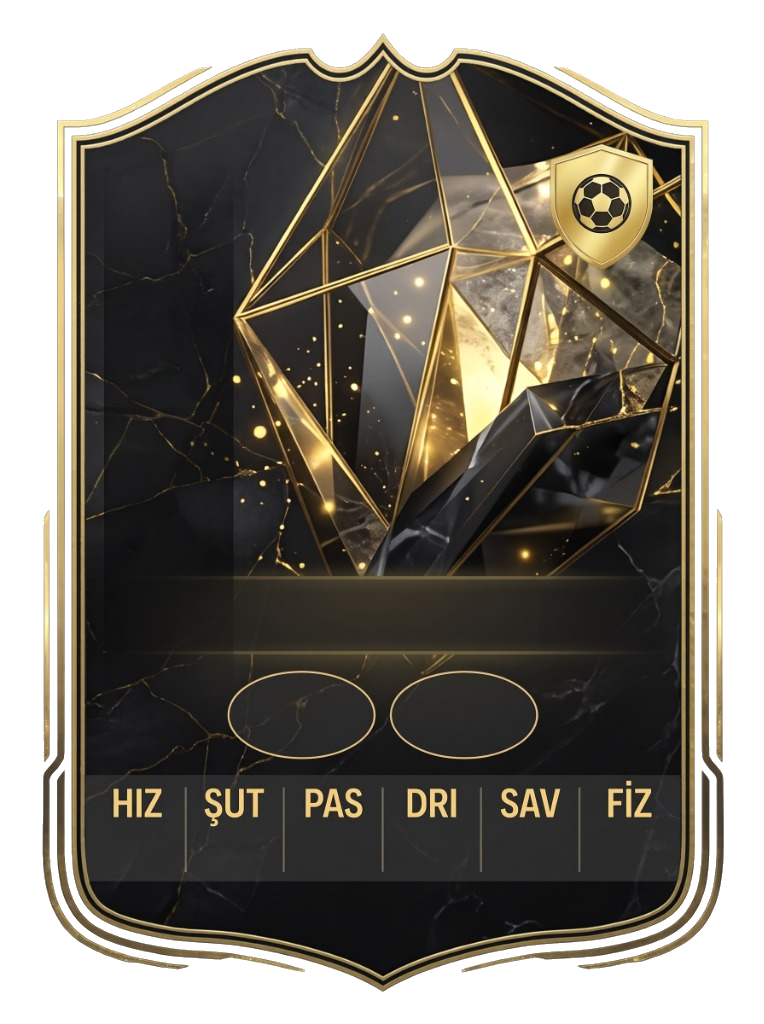
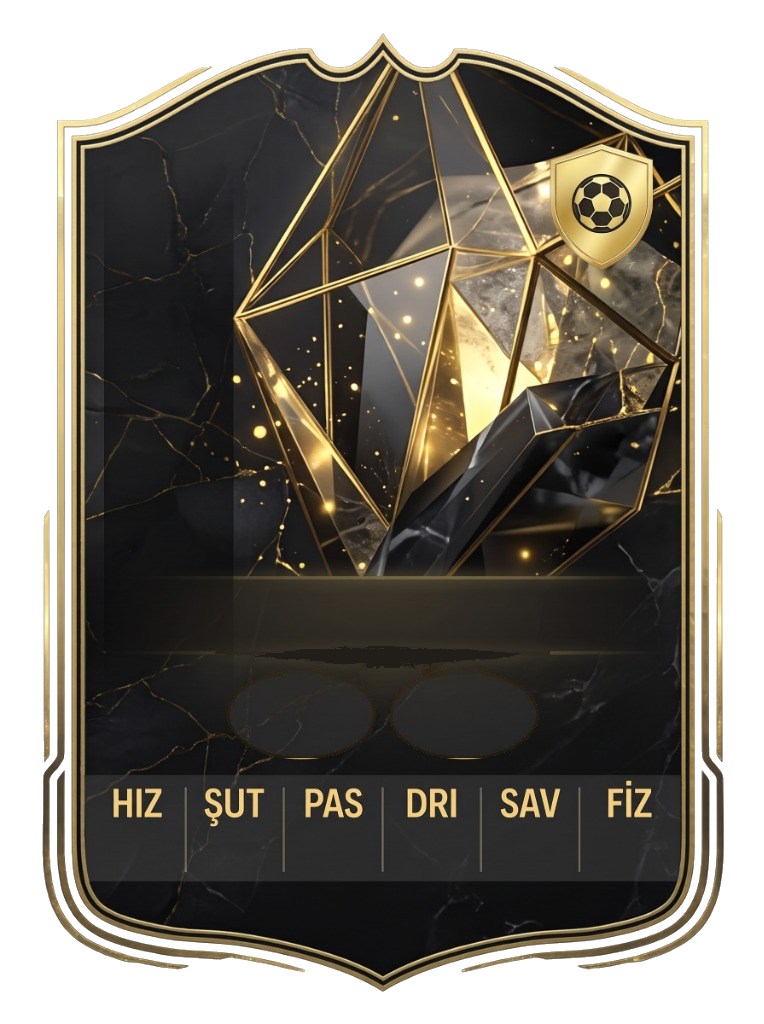
feat: TOTW card rounded horizontal PlayStyles rectangles, centered name and nickname above name

Changed region(s): [[0.301, 0.625, 0.6924, 0.7188], [0.6924, 0.6875, 0.7225, 0.7188], [0.6623, 0.7188, 0.6924, 0.75]]

diff --git a/src/components/card/FCCard.tsx b/src/components/card/FCCard.tsx
@@ -93,12 +93,12 @@ export const FCCard: React.FC<Props> = ({
           nicknameColor: 'text-[#FBBF24]',
           statValColor: 'text-[#FDE68A]',
           ovalTextColor: 'text-amber-200',
-          ovalIconColor: 'text-amber-300',
-          nameTop: 'top-[54.6%]',
+          ovalIconColor: 'text-amber-400',
+          nameTop: 'top-[52.2%]',
           statTop: 'top-[82.2%]',
           statBounds: 'left-[11.3%] right-[11.3%]',
           ovalsTop: 'top-[65.2%]',
-          ovalsBounds: 'left-[29.5%] right-[29.5%]',
+          ovalsBounds: 'left-[10.5%] right-[10.5%]',
           ovalsHeight: 'h-[7.2%]',
           photoFrame: 'top-[11%] left-[12%] right-[8%] h-[44%]',
           isGold: false,
@@ -368,25 +368,65 @@ export const FCCard: React.FC<Props> = ({
         )}
 
         {/* Oyuncu Adı ve Halı Saha Lakabı */}
-        <div
-          className={`absolute left-0 right-0 ${themeConfig.nameTop} flex flex-col items-center justify-center text-center z-20 pointer-events-none`}
-        >
-          <h3 className={`font-black uppercase tracking-wide ${themeConfig.nameColor} ${
-            theme === 'legend' || theme === 'bidon' ? 'text-lg sm:text-xl' : sizeConfig.nameText
-          } ${theme === 'legend' || theme === 'bidon' ? 'drop-shadow-none' : 'drop-shadow-[0_2px_4px_rgba(0,0,0,0.9)]'} truncate w-full px-4`}>
-            {player.name}
-          </h3>
-          <p className={`font-bold italic ${themeConfig.nicknameColor} ${
-            theme === 'legend' || theme === 'bidon' ? 'text-[11px]' : sizeConfig.nicknameText
-          } ${theme === 'legend' || theme === 'bidon' ? 'drop-shadow-none' : 'drop-shadow-[0_1px_2px_rgba(0,0,0,0.8)]'} mt-0.5 truncate w-full px-4`}>
-            "{player.nickname}"
-          </p>
-        </div>
+        {theme === 'totw' ? (
+          <div className="absolute left-0 right-0 top-[52.0%] flex flex-col items-center justify-center text-center z-20 pointer-events-none">
+            {/* Lakap: İsmin üstünde, resmin üzerine doğru */}
+            <p className="font-bold italic text-[#FBBF24] text-[11px] sm:text-xs tracking-wide drop-shadow-[0_2px_4px_rgba(0,0,0,0.95)] mb-1 truncate w-full px-4">
+              "{player.nickname}"
+            </p>
+            {/* İsim: Tam isimlik kısmının ortasında */}
+            <h3 className={`font-black uppercase tracking-wide text-white ${sizeConfig.nameText} drop-shadow-[0_2px_5px_rgba(0,0,0,0.95)] truncate w-full px-4`}>
+              {player.name}
+            </h3>
+          </div>
+        ) : (
+          <div
+            className={`absolute left-0 right-0 ${themeConfig.nameTop} flex flex-col items-center justify-center text-center z-20 pointer-events-none`}
+          >
+            <h3 className={`font-black uppercase tracking-wide ${themeConfig.nameColor} ${
+              theme === 'legend' || theme === 'bidon' ? 'text-lg sm:text-xl' : sizeConfig.nameText
+            } ${theme === 'legend' || theme === 'bidon' ? 'drop-shadow-none' : 'drop-shadow-[0_2px_4px_rgba(0,0,0,0.9)]'} truncate w-full px-4`}>
+              {player.name}
+            </h3>
+            <p className={`font-bold italic ${themeConfig.nicknameColor} ${
+              theme === 'legend' || theme === 'bidon' ? 'text-[11px]' : sizeConfig.nicknameText
+            } ${theme === 'legend' || theme === 'bidon' ? 'drop-shadow-none' : 'drop-shadow-[0_1px_2px_rgba(0,0,0,0.8)]'} mt-0.5 truncate w-full px-4`}>
+              "{player.nickname}"
+            </p>
+          </div>
+        )}
 
         {/* PlayStyles Rozetleri */}
         {showBadges && (
           <>
-            {themeConfig.isGold ? (
+            {theme === 'totw' ? (
+              /* TOTW Kartı: Köşeleri Yuvarlatılmış Geniş Yatay Dikdörtgen Rozetler */
+              <div
+                className={`absolute ${themeConfig.ovalsTop} ${themeConfig.ovalsBounds} ${themeConfig.ovalsHeight} flex justify-center items-center gap-2 z-20 pointer-events-none select-none`}
+              >
+                {player.playstyles.slice(0, 2).map((ps, idx) => {
+                  const cfg = PLAYSTYLE_CONFIG[ps];
+                  if (!cfg) return null;
+                  const Icon = cfg.icon;
+                  const isSingle = player.playstyles.slice(0, 2).length === 1;
+                  return (
+                    <div
+                      key={idx}
+                      className={`${
+                        isSingle ? 'w-[65%]' : 'flex-1 min-w-0'
+                      } h-full rounded-xl bg-gradient-to-r from-neutral-950/95 via-[#1a1610]/95 to-neutral-950/95 border border-amber-400/60 shadow-lg shadow-black/80 flex items-center justify-center gap-1.5 px-2.5`}
+                      title={`${cfg.label}: ${cfg.description}`}
+                    >
+                      <span className="text-[11px] leading-none select-none">{cfg.emoji}</span>
+                      <Icon className="w-3.5 h-3.5 shrink-0 text-amber-400" />
+                      <span className="text-[9px] sm:text-[10px] md:text-[11px] font-bold text-amber-200 tracking-tight truncate">
+                        {cfg.label}
+                      </span>
+                    </div>
+                  );
+                })}
+              </div>
+            ) : themeConfig.isGold ? (
               /* Altın Kart: Sağ/Orta Alt Hap Rozetleri (1 veya 2 adet yan yana) */
               <div className="absolute bottom-[4.8%] right-[8%] left-[8%] flex justify-end items-center gap-1.5 z-20 pointer-events-none select-none">
                 {player.playstyles.slice(0, 2).map((ps, idx) => {
